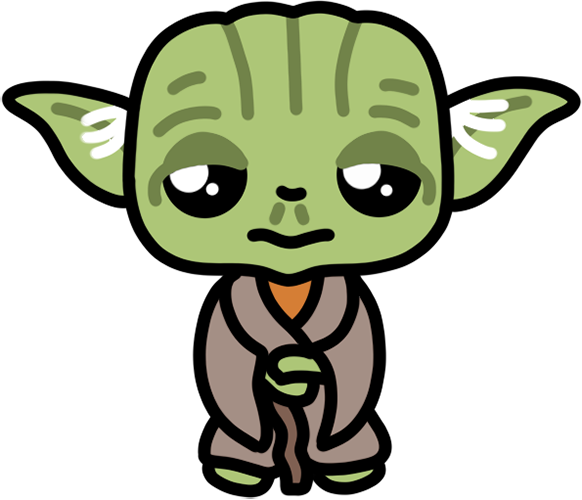
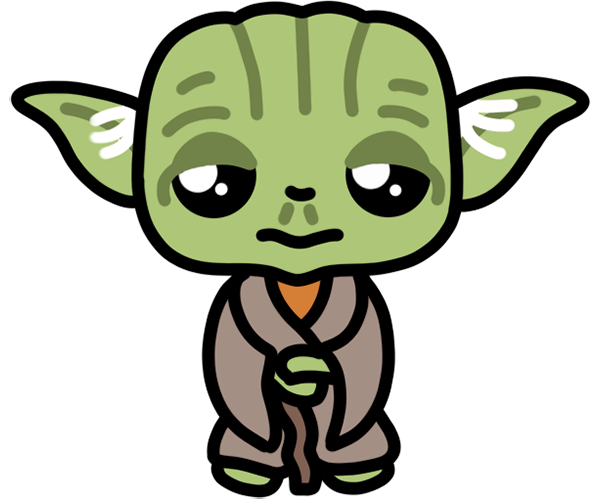
Update images saizes

diff --git a/index.html b/index.html
@@ -57,17 +57,17 @@
 
     <main>
         <section class="clicker_container">
-            <div class="helper ewok"><img src="./FinalImages/ewok.png" alt="ewok kawaii" width="50%">
+            <div class="helper ewok"><img src="./FinalImages/ewok.png" alt="ewok kawaii" width="85%">
             </div>
-            <div class="helper C3PO"><img src="./FinalImages/C3PO.png" alt="C3PO kawaii" width="50%">
+            <div class="helper C3PO"><img src="./FinalImages/C3PO.png" alt="C3PO kawaii" width="85%">
             </div>
-            <div class="helper R2D2"><img src="./FinalImages/R2D2.png" alt="R2D2 kawaii" width="50%">
+            <div class="helper R2D2"><img src="./FinalImages/R2D2.png" alt="R2D2 kawaii" width="85%">
             </div>
             <div class="wookie_clicker"><img src="./FinalImages/chewie.png" alt="chewbacca kawaii" width="100%"></div>
-            <div class="helper yoda"><img src="./FinalImages/Yoda.png" alt="yoda kawaii" width="70%">
+            <div class="helper yoda"><img src="./FinalImages/Yoda.png" alt="yoda kawaii" width="85%">
             </div>
-            <div class="helper xwing"><img src="./FinalImages/xwing.png" alt="X-wing kawaii" width="50%"></div>
-            <div class="helper falcon"><img src="./FinalImages/Falcon.png" alt="millenium falcon kawaii" width="50%">
+            <div class="helper xwing"><img src="./FinalImages/xwing.png" alt="X-wing kawaii" width="85%"></div>
+            <div class="helper falcon"><img src="./FinalImages/Falcon.png" alt="millenium falcon kawaii" width="85%">
             </div>
         </section>
     </main>

diff --git a/styles/style.css b/styles/style.css
@@ -278,10 +278,6 @@ footer {
     align-items: center;
   }
 
-  .yoda {
-    width: 25%;
-  }
-
   footer {
     width: 30%;
   }
